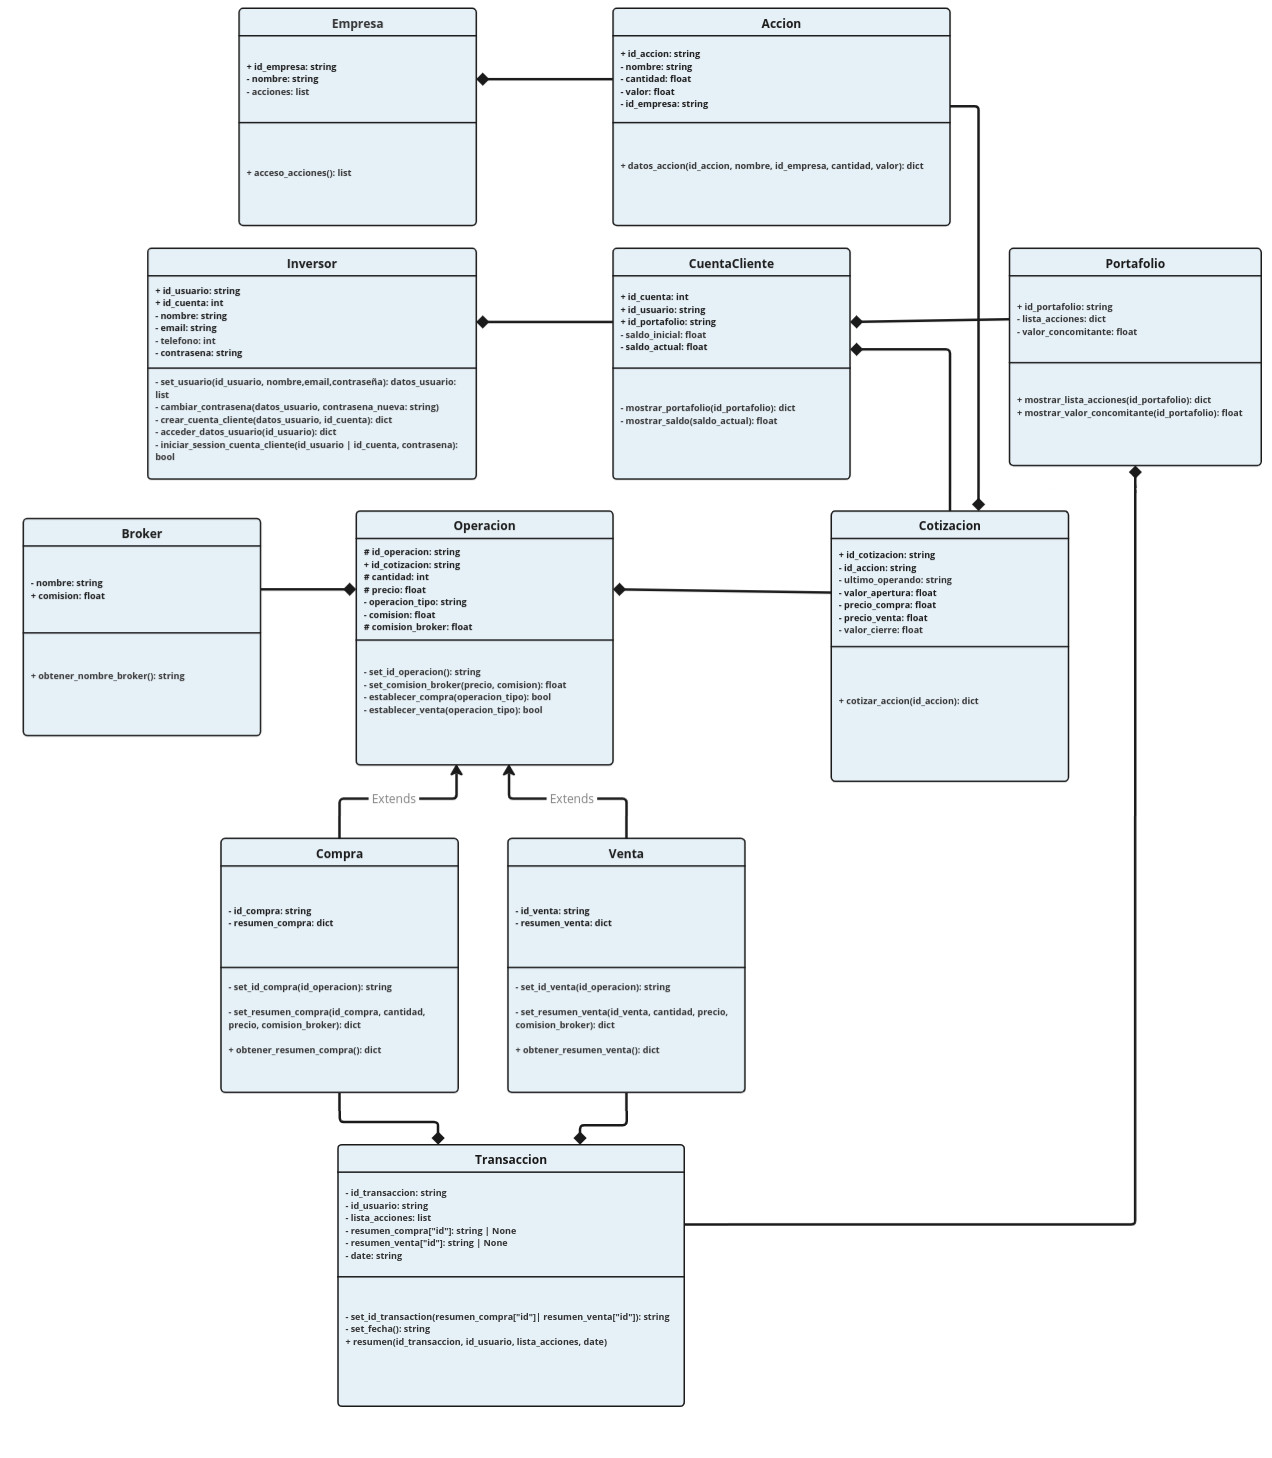
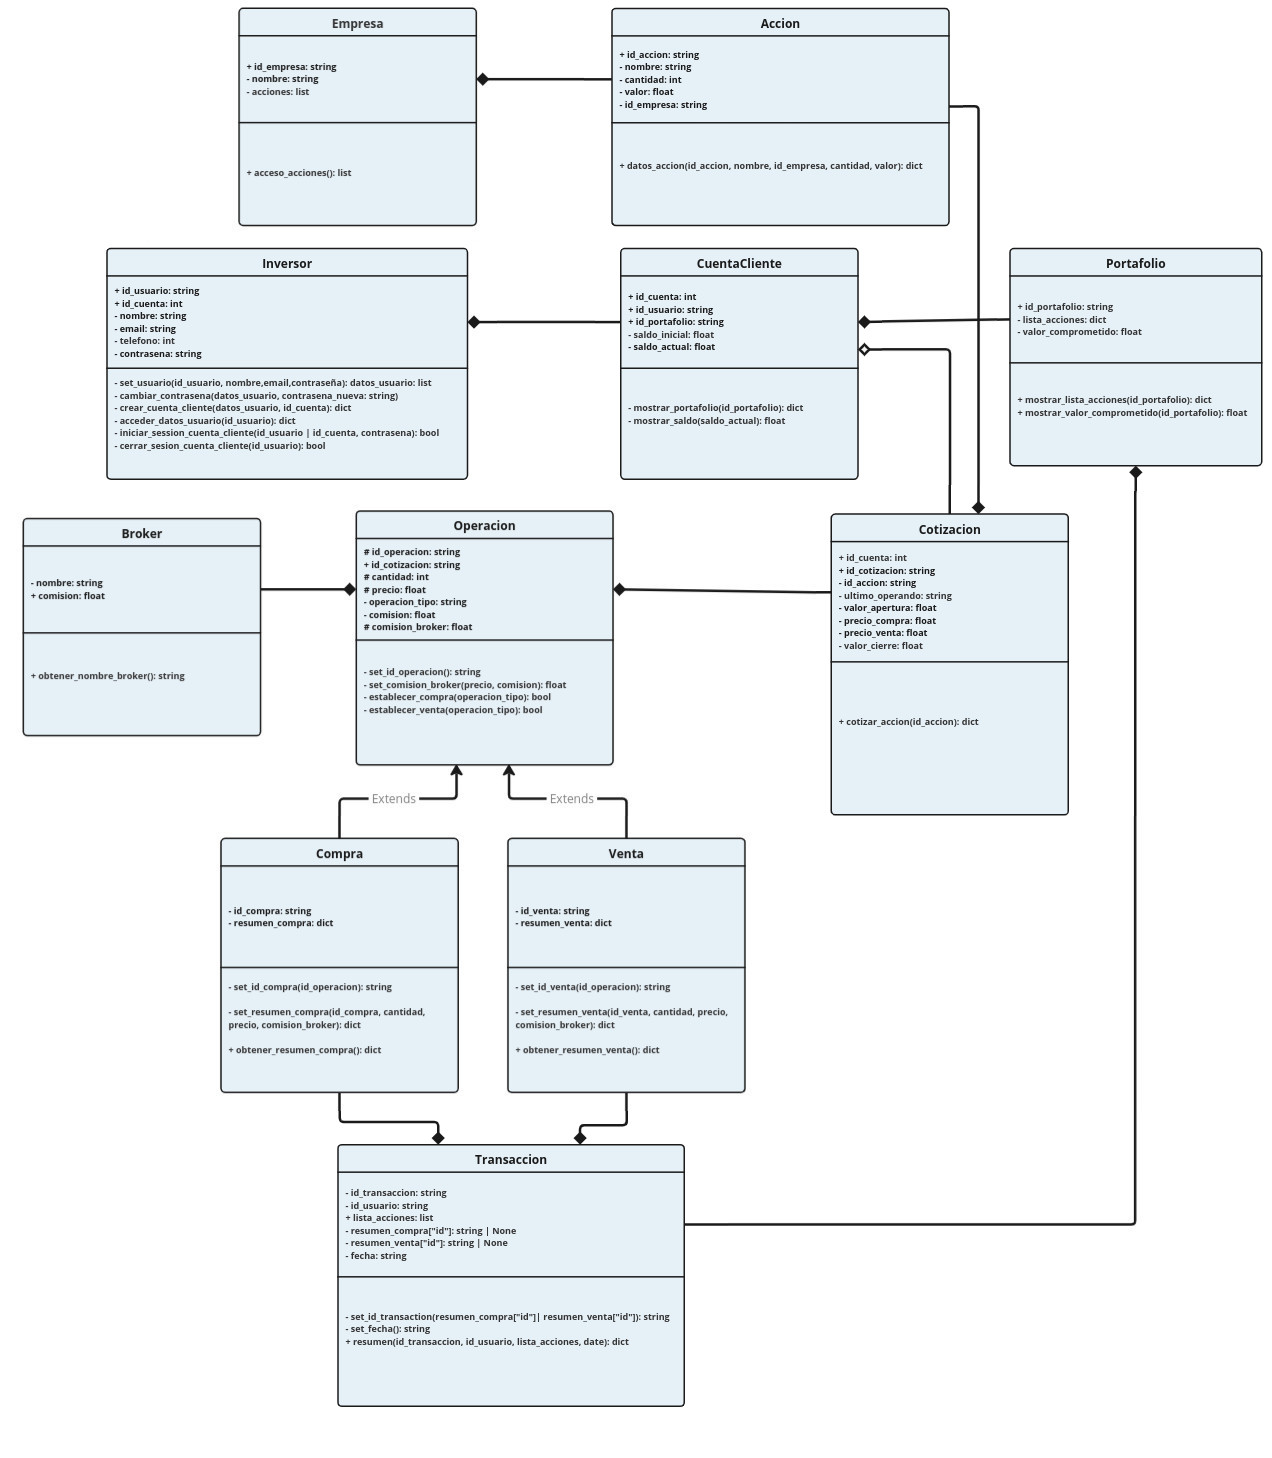
Programación: Diagrama de clase + documentación

diff --git a/source/Programacion/Documentacion.md b/source/Programacion/Documentacion.md
@@ -1,0 +1,39 @@
+# Documentación del Desarrollo de diagrama de clases para ARGBroker Demo
+
+## Introducción
+En este documento se describe el desarrollo del diagrama de clases para el área de programación
+
+## Tareas
+- Identificación de clases 
+- Creación de clases
+- Establececimiento de relaciones
+- Realizar diagrama de clases
+- Documentar diagrama
+
+Las tareas se dividieron por igual entre el equipo
+
+## Nomenclatura
+Las clases se nombran utilizando la metodología PascalCase, y los atributos y métodos la de snake_case
+No se usan tildes, ñ ni carácteres especiales en la definición de nombres
+
+## Clases
+
+INVERSOR
+
+Atributos público
+id_usuario: string » identificación del usuario 
+id_cuenta: int » identificación de la cuenta de cliente del usuario 
+
+Atributos privados   
+nombre: string
+email: string
+telefono: int
+contrasena: string 
+
+Métodos privados
+- set_usuario(id_usuario, nombre,email,contraseña): datos_usuario: list » Definición de los valores del usuario, se asignan por parámetros del método y la función retorna una lista con los valores nuevos
+- cambiar_contrasena(datos_usuario, contrasena_nueva: string)
+- crear_cuenta_cliente(datos_usuario, id_cuenta): dict
+- acceder_datos_usuario(id_usuario): dict
+- iniciar_session_cuenta_cliente(id_usuario | id_cuenta, contrasena): bool
+- cerrar_sesion_cuenta_cliente(id_usuario): bool
